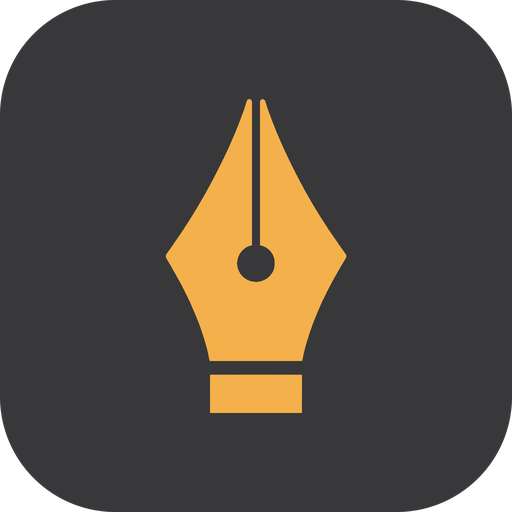
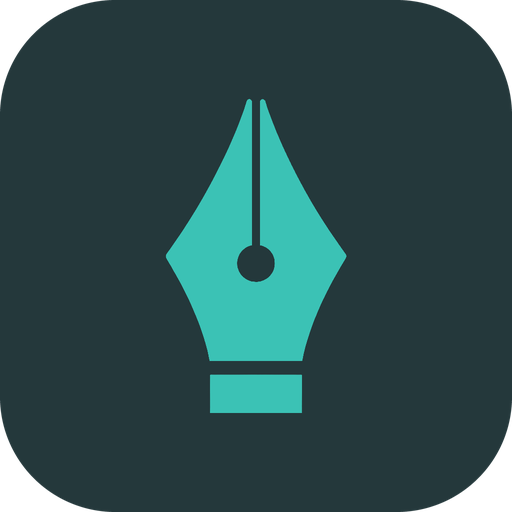
feat(marca): paleta propia — una sola tinta a distintas profundidades
El ámbar de Nib no era una elección, era el color que salió del logo generado. Y
tenía un defecto que no habíamos visto: el `warning600` de Strapi es #d9822f y
convivimos con él en la misma pantalla. El ámbar estaba a SIETE grados de matiz
de ese warning, así que en una UI densa «esto está activo» y «cuidado» se veían
casi igual. No es gusto, es un problema de lectura.

La nueva paleta no es «fondo oscuro + un acento»: es el mismo pigmento diluido,
que es lo que hace la tinta sobre el papel. El grafito tiene fondo verde-azulado
para que el acento parezca salir de la superficie y no estar pegado encima, y el
papel es un blanco FRÍO — el crema cálido con terracota es el default que sale
solo cuando se pide algo «editorial».

El teal no fue gusto tampoco, fue descarte: rojo, verde y ámbar están tomados
por los estados de Strapi; el violeta es su default; el verde ya es de un
proyecto y el naranja de otro. Queda a 147° del warning.

Los números, para poder recalcularlos si alguien la toca:
  · botón en claro  #0f6e68 sobre blanco     6.09:1  (AA con margen)
  · acento en oscuro #3bc2b5 sobre el panel   7.99:1
  · texto #0e1a1c sobre papel #f1f4f2        16.03:1

El logo se rehízo extrayendo la silueta del original y redibujándola en los
colores nuevos, así la forma quedó idéntica y sólo cambió el color. Y los tres
acentos de las placas ya no son tres colores sino el mismo más claro y más
hondo, con lo que el gradiente sale como una aguada de tinta.

Changed region(s): [[0.3125, 0.1875, 0.6875, 0.8125]]

diff --git a/apps/cms/src/admin/default-brand.ts b/apps/cms/src/admin/default-brand.ts
@@ -17,36 +17,42 @@
 import Mark from "./brand/mark.png";
 import Favicon from "./brand/favicon.png";
 
-// Rampa ámbar, muestreada del logo (#F4B04A, la pluma) y extendida respetando
-// la lógica de contraste de Strapi, que NO es simétrica entre temas:
+// Rampa "pavo real", el acento de Nib. La paleta es una sola tinta a distintas
+// profundidades: grafito con fondo verde-azulado, y el acento saliendo de esa
+// misma superficie en vez de pegado encima.
 //
-//   · en claro,  primary600 es el fondo del botón y lleva texto blanco encima,
-//     así que tiene que ser un ámbar QUEMADO. El de la marca da 1.88:1 contra
-//     blanco —ilegible—; #9A6410 da 4.99:1 y pasa AA.
-//   · en oscuro, primary600 es el tono que resalta contra el panel, así que ahí
-//     sí va el ámbar de la marca: 8.4:1 contra el fondo del admin. Los botones
-//     usan buttonPrimary600 (el quemado) para no perder el contraste del texto.
+// ⚠ El primario NO puede ser ámbar ni naranja: el `warning600` de Strapi es
+// #d9822f y convivimos con él en la misma pantalla. El ámbar que tenía Nib
+// estaba a SIETE grados de matiz de ese warning — en una UI densa, "esto está
+// activo" y "cuidado" se veían casi igual. El teal queda a 147°.
 //
-// Si se retoca la paleta, recalcular estos dos ratios antes de commitear: el
-// error fácil es usar el ámbar lindo en los dos lados y dejar los botones del
-// tema claro con texto blanco ilegible.
+// El contraste tampoco es simétrico entre temas:
+//
+//   · en claro,  primary600 es el fondo del botón y lleva texto blanco encima:
+//     #0F6E68 da 6.09:1 y pasa AA con margen.
+//   · en oscuro, primary600 es el tono que resalta contra el panel, así que va
+//     el claro: #3BC2B5 da 7.99:1. Los botones usan buttonPrimary600 (el
+//     profundo) para no perder el contraste del texto.
+//
+// Si se retoca la paleta, recalcular esos dos ratios Y la separación de matiz
+// contra el warning antes de commitear.
 const COLORS_LIGHT = {
-  primary100: "#fdf3e3",
-  primary200: "#f6dcae",
-  primary500: "#c98a2a",
-  primary600: "#9a6410",
-  primary700: "#7a4e0b",
-  buttonPrimary500: "#c98a2a",
-  buttonPrimary600: "#9a6410",
+  primary100: "#e3f2f0",
+  primary200: "#b9e0db",
+  primary500: "#12857c",
+  primary600: "#0f6e68",
+  primary700: "#0c5a55",
+  buttonPrimary500: "#12857c",
+  buttonPrimary600: "#0f6e68",
 };
 const COLORS_DARK = {
-  primary100: "#2a1e0c",
-  primary200: "#6b4e20",
-  primary500: "#c98a2a",
-  primary600: "#f4b04a",
-  primary700: "#f4b04a",
-  buttonPrimary500: "#c98a2a",
-  buttonPrimary600: "#9a6410",
+  primary100: "#0a2422",
+  primary200: "#17514b",
+  primary500: "#2bafa3",
+  primary600: "#3bc2b5",
+  primary700: "#3bc2b5",
+  buttonPrimary500: "#12857c",
+  buttonPrimary600: "#0f6e68",
 };
 
 // Los dos slots llevan el tile cuadrado, no el lockup:

diff --git a/apps/web/lib/site.ts b/apps/web/lib/site.ts
@@ -15,7 +15,7 @@ export const SITE_LOGO = `${SITE_URL}/icon.png`;
 export const SITE_DESCRIPTION = "Portal de noticias.";
 
 /** Colores del manifest: los de la marca, no los tokens de tema. */
-export const MANIFEST_COLORS = { background: "#F9F9F9", theme: "#38383A" };
+export const MANIFEST_COLORS = { background: "#F1F4F2", theme: "#24383B" };
 
 /**
  * Paleta e inscripciones de la tarjeta que se ve al compartir el sitio.
@@ -24,12 +24,11 @@ export const MANIFEST_COLORS = { background: "#F9F9F9", theme: "#38383A" };
  * con colores literales.
  */
 export const OG_CARD = {
-  ink: "#1B1B1F",
-  // Ámbar medio y no el de la marca (#F4B04A): las bandas van sobre el papel
-  // blanco de la tarjeta, donde el ámbar claro se lava y casi no se ve. El
-  // ámbar de marca lo pone el logo, que trae su propio fondo grafito.
-  sun: "#C98A2A",
-  paper: "#F9F9F9",
+  ink: "#0E1A1C",
+  // El teal profundo y no el claro: las bandas van sobre el papel de la
+  // tarjeta, donde el claro se lava y casi no se ve.
+  sun: "#0F6E68",
+  paper: "#F1F4F2",
   eyebrow: "",
   tagline: "",
 };

diff --git a/apps/cms/src/verticals/brand.ts b/apps/cms/src/verticals/brand.ts
@@ -20,17 +20,19 @@
 // el panel. Estaba en los dos lados y podían decir cosas distintas — la placa
 // firmaba de una forma y el caption de otra.
 
-// Los valores son los de Nib: grafito y ámbar, muestreados del logo. Un
+// Los valores son los de Nib: una sola tinta a distintas profundidades. Los tres
+// acentos no son tres colores sino el mismo pigmento más claro y más hondo, así
+// que el gradiente FIRE sale como una aguada de tinta y no como un arcoíris. Un
 // proyecto que adopta el motor reescribe este archivo entero con los suyos.
 export const BRAND = {
-  bg: "#1B1B1F",
-  bgSoft: "#26262B",
+  bg: "#0E1A1C",
+  bgSoft: "#17282B",
   white: "#FFFFFF",
-  offwhite: "#EDEDED",
-  muted: "#9A9AA2",
-  accent: "#F4B04A",
-  accentLight: "#F9CF8F",
-  accentWarm: "#C2661A",
+  offwhite: "#E6EDEC",
+  muted: "#8AA0A1",
+  accent: "#2BAFA3",
+  accentLight: "#6FE0D4",
+  accentWarm: "#1F4E63",
   fontDisplay: "Anton",
   fontBody: "Inter",
 };

diff --git a/apps/web/app/[lang]/theme.css b/apps/web/app/[lang]/theme.css
@@ -19,9 +19,9 @@
  */
 
 :root {
-  --brand-ink: #1b1b1f;
-  --brand-sun: #f4b04a;
-  --brand-paper: #f9f9f9;
+  --brand-ink: #0e1a1c;
+  --brand-sun: #3bc2b5;
+  --brand-paper: #f1f4f2;
 }
 
 :root {
